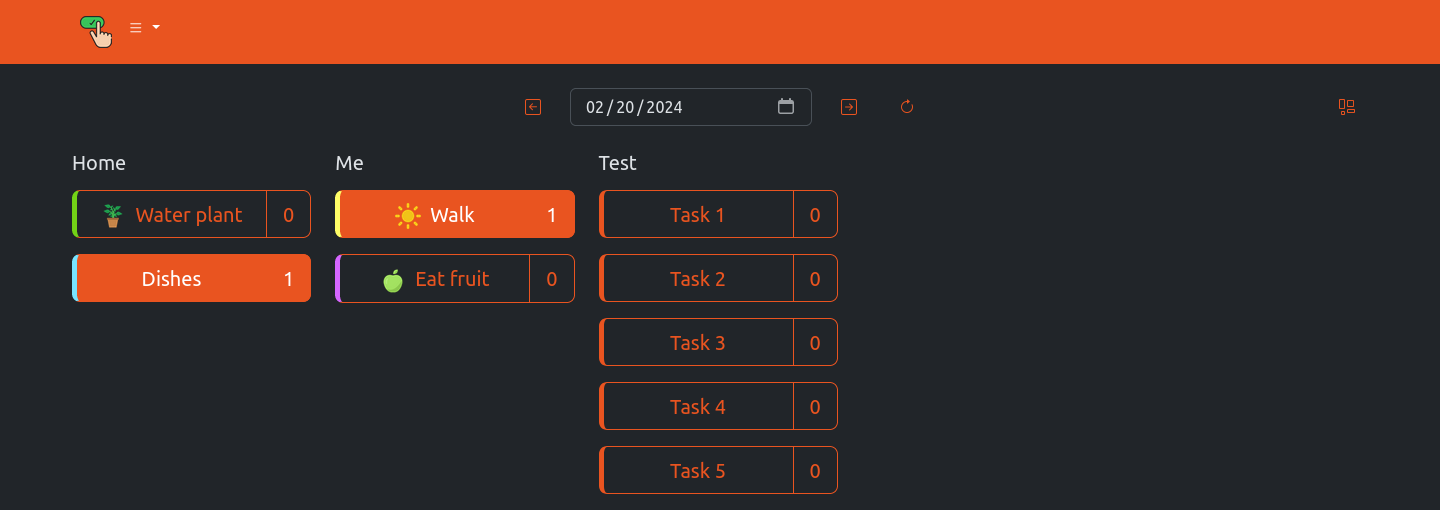
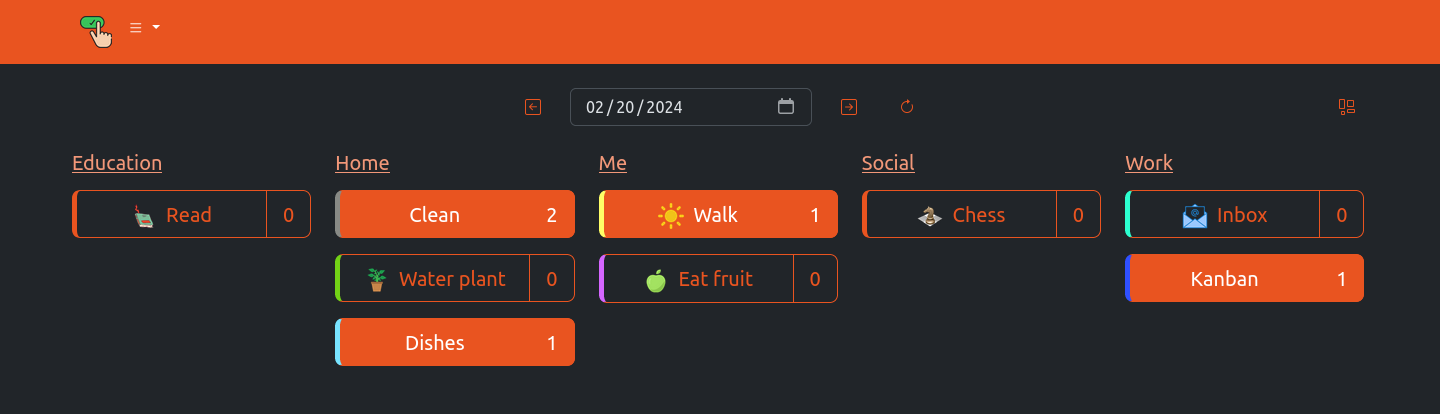
Plan filter by group

diff --git a/internal/web/templates/index.html b/internal/web/templates/index.html
@@ -9,9 +9,9 @@
     <div class="col-md"></div>
     <div class="col-md">
       <div class="gap-3 hstack">
-        <button onclick='setFormDate(-1)' class="btn tr-button"><i class="bi bi-arrow-left-square"></i></button>
+        <button onclick='setFormDate(-1)' class="btn tr-button"><i class="bi bi-arrow-left-square" title="Back"></i></button>
         <input type="date" class="m-auto form-control" onchange='setFormDate()' id="realDate" style="width: 70%;">
-        <button onclick='setFormDate(+1)' class="btn tr-button"><i class="bi bi-arrow-right-square"></i></button>
+        <button onclick='setFormDate(+1)' class="btn tr-button"><i class="bi bi-arrow-right-square" title="Forward"></i></button>
         <button onclick='updatePlan()' class="btn tr-button" title="Update plan">
           <i class="bi bi-arrow-clockwise"></i>
         </button>

diff --git a/internal/web/templates/plan.html b/internal/web/templates/plan.html
@@ -3,6 +3,9 @@
 <body>
     <div class="container-lg mt-3">
         <div class="card border-primary">
+            <div class="card-header">
+                <h5>Plan</h5>
+            </div>
             <div class="card-body table-responsive">
                 <table class="table table-striped table-hover">
                     <thead>

diff --git a/internal/web/public/js/index.js b/internal/web/public/js/index.js
@@ -55,7 +55,7 @@ function genHTML(gr, checks) {
         hcol = '<div class="col-md-auto">';
         hdiv = '</div>';
     }
-    let html = vcol + `<h5>${gr}</h5>`;
+    let html = vcol + `<a href="/plan/?gr=${gr}"><h5>${gr}</h5></a>`;
     let len = checks.length;
 
     for (let i = 0 ; i < len; i++) {

diff --git a/internal/web/plan.go b/internal/web/plan.go
@@ -15,11 +15,18 @@ func planHandler(c *gin.Context) {
 
 	guiData.Config = appConfig
 
+	gr, ok := c.GetQuery("gr")
+
 	for i := range allPlans {
 		allPlans[i].ID = i + 1
+		if ok && (allPlans[i].Group == gr) {
+			guiData.Plans = append(guiData.Plans, allPlans[i])
+		}
 	}
 
-	guiData.Plans = allPlans
+	if !ok {
+		guiData.Plans = allPlans
+	}
 
 	c.HTML(http.StatusOK, "header.html", guiData)
 	c.HTML(http.StatusOK, "plan.html", guiData)

diff --git a/CHANGELOG.md b/CHANGELOG.md
@@ -7,3 +7,4 @@ All notable changes to this project will be documented in this file.
 - Add/Edit plan
 - Button width in config
 - Sort groups and tasks
+- Layout toggle button
